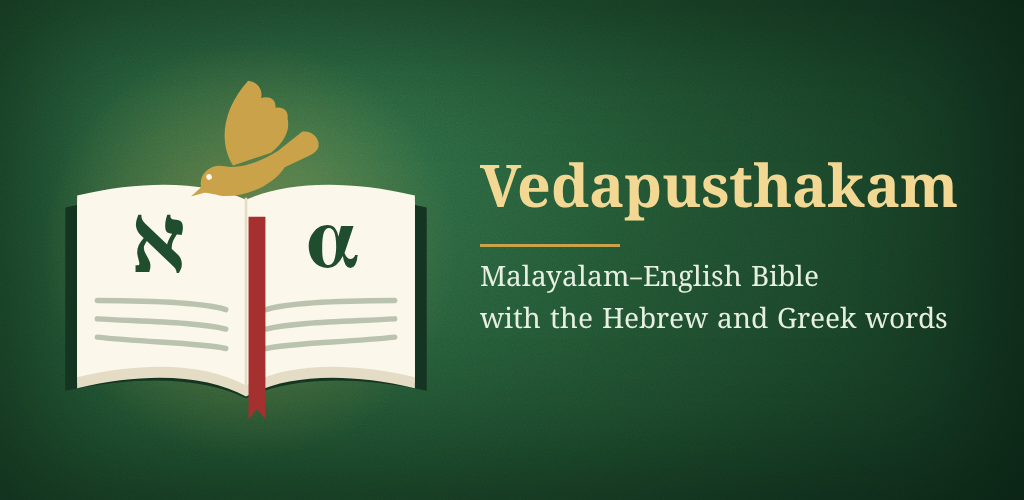
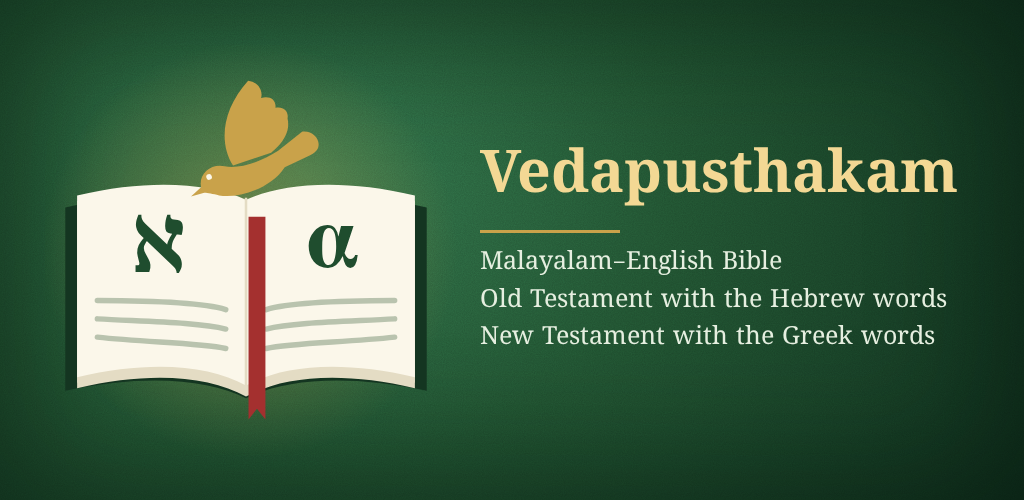
Play listing: Malayalam English Bible, Hebrew for the Old Testament, Greek for the New
App names: വേദപുസ്തകം – മലയാളം ഇംഗ്ലീഷ് (Malayalam listing) and Malayalam
English Bible (English translation), within Play's 30 characters. The short
and full descriptions and the feature graphics now say the words are Hebrew
in the Old Testament and Greek in the New.

Claude-Session: https://claude.ai/code/session_01Kt8QQgS1XLBE3LTVGzDsDj

Changed region(s): [[0.4688, 0.45, 0.9375, 0.69], [0.4688, 0.3, 0.9375, 0.45]]

diff --git a/docs/play/listing-vedapusthakam.md b/docs/play/listing-vedapusthakam.md
@@ -8,27 +8,27 @@ Malayalam speaker before it goes live.
 
 ## Malayalam (default)
 
-**App name** (24 of 30 characters)
+**App name** (28 of 30 characters)
 
 ```
-വേദപുസ്തകം: മലയാളം ബൈബിൾ
+വേദപുസ്തകം – മലയാളം ഇംഗ്ലീഷ്
 ```
 
 **Short description** (69 of 80)
 
 ```
-സത്യവേദപുസ്തകം 1910, KJV, എബ്രായ-ഗ്രീക്ക് മൂലപാഠം. ഇന്റർനെറ്റ് വേണ്ട.
+മലയാളം–ഇംഗ്ലീഷ് ബൈബിൾ. പഴയനിയമത്തിന് എബ്രായ, പുതിയനിയമത്തിന് ഗ്രീക്ക് പദങ്ങൾ.
 ```
 
 **Full description**
 
 ```
-സത്യവേദപുസ്തകം (1910) വായിക്കാനും, ഓരോ വാക്കിനും പിന്നിലുള്ള എബ്രായ, ഗ്രീക്ക് മൂലവാക്കുകൾ പഠിക്കാനും.
+മലയാളം–ഇംഗ്ലീഷ് ബൈബിൾ: സത്യവേദപുസ്തകവും (1910) കിംഗ് ജെയിംസ് വേർഷനും വായിക്കാനും, ഓരോ വാക്കിനും പിന്നിലുള്ള മൂലവാക്കുകൾ, പഴയനിയമത്തിൽ എബ്രായയും പുതിയനിയമത്തിൽ ഗ്രീക്കും, പഠിക്കാനും.
 
 • സത്യവേദപുസ്തകവും കിംഗ് ജെയിംസ് വേർഷനും (KJV): ഒറ്റ സ്പർശത്തിൽ മാറാം.
-• അടിവരയിട്ട ഒരു മലയാളം വാക്കിൽ തൊട്ടാൽ അതിന്റെ എബ്രായ അല്ലെങ്കിൽ ഗ്രീക്ക് മൂലവാക്ക്: അർത്ഥം, ഉച്ചാരണം, വ്യാകരണം, സ്ട്രോങ്ങിന്റെ നിഘണ്ടു.
+• അടിവരയിട്ട ഒരു മലയാളം വാക്കിൽ തൊട്ടാൽ അതിന്റെ മൂലവാക്ക് (പഴയനിയമത്തിൽ എബ്രായ, പുതിയനിയമത്തിൽ ഗ്രീക്ക്): അർത്ഥം, ഉച്ചാരണം, വ്യാകരണം, സ്ട്രോങ്ങിന്റെ നിഘണ്ടു.
 • ആ മൂലവാക്ക് വരുന്ന എല്ലാ വാക്യങ്ങളും, സത്യവേദപുസ്തകം അതിനെ ഏതെല്ലാം വാക്കുകളാൽ പരിഭാഷപ്പെടുത്തുന്നു എന്നതും.
-• മൂലപാഠം: ഓരോ വാക്യത്തിന്റെയും എബ്രായ, ഗ്രീക്ക് പാഠം വാക്കുവാക്കായി, ഉച്ചാരണവും അർത്ഥവും സഹിതം.
+• മൂലപാഠം: പഴയനിയമത്തിലെ ഓരോ വാക്യത്തിന്റെയും എബ്രായ പാഠവും പുതിയനിയമത്തിലേതിന്റെ ഗ്രീക്ക് പാഠവും വാക്കുവാക്കായി, ഉച്ചാരണവും അർത്ഥവും സഹിതം.
 • മലയാളത്തിലും ഇംഗ്ലീഷിലും തിരയാം; അക്ഷരരീതിയിലെ ചെറിയ വ്യത്യാസങ്ങൾ (ആത്മാവ്/ആത്മാവു, കൽപിച്ചു/കല്പിച്ചു) പ്രശ്നമല്ല. സങ്കീർത്തനം 23, യോഹന്നാൻ 3:16 പോലെ ടൈപ്പ് ചെയ്ത് നേരെ പോകാം.
 • ഒരു വാക്യം മലയാളത്തിലും KJV-യിലും മൂലപാഠത്തോടൊപ്പം താരതമ്യം ചെയ്യാം.
 • വാക്യം മുഴുവനായോ ചില വാക്കുകൾ മാത്രമായോ, പല വാക്യങ്ങൾ കടന്നുപോകുന്ന ഒരു ഭാഗമായോ നാല് നിറങ്ങളിൽ ഹൈലൈറ്റ് ചെയ്യാം. അടയാളങ്ങളും കുറിപ്പുകളും സൂക്ഷിക്കാം.
@@ -44,29 +44,29 @@ Malayalam speaker before it goes live.
 
 ## English (translation)
 
-**App name** (30 of 30)
+**App name** (23 of 30)
 
 ```
-Vedapusthakam: Malayalam Bible
+Malayalam English Bible
 ```
 
 **Short description** (75 of 80)
 
 ```
-Malayalam Bible 1910 and the KJV, with the Hebrew and Greek words. Offline.
+Malayalam-English Bible. Hebrew words for the Old Testament, Greek for the New.
 ```
 
 **Full description**
 
 ```
-Read the Malayalam Sathyavedapusthakam (1910) and study the Hebrew and Greek words behind it.
+A Malayalam-English Bible: read the Sathyavedapusthakam (1910) and the King James Version, and study the words behind them, Hebrew in the Old Testament and Greek in the New.
 
 • The Sathyavedapusthakam and the King James Version, switched with one tap.
-• Tap an underlined Malayalam word for the Hebrew or Greek word behind it: meaning, pronunciation, grammar and Strong's dictionary entry.
+• Tap an underlined Malayalam word for the word behind it, Hebrew in the Old Testament or Greek in the New: meaning, pronunciation, grammar and Strong's dictionary entry.
 • Every verse where that Hebrew or Greek word stands, and the Malayalam words the Sathyavedapusthakam uses for it.
-• Hebrew and Greek words: the original text of every verse, word by word, with transliteration and a short meaning.
+• Hebrew and Greek words: the Hebrew of every Old Testament verse and the Greek of every New Testament verse, word by word, with transliteration and a short meaning.
 • Search in Malayalam or English; small spelling differences (ആത്മാവ്/ആത്മാവു, കൽപിച്ചു/കല്പിച്ചു) don't matter. Type a reference such as സങ്കീർത്തനം 23 or John 3:16 to go straight there.
-• Compare a verse in Malayalam and the KJV side by side with the Hebrew or Greek.
+• Compare a verse in Malayalam and the KJV side by side with the Hebrew (Old Testament) or Greek (New Testament).
 • Highlight a whole verse, a few words, or a passage running over several verses, in four colours. Keep bookmarks and notes.
 • Light, sepia and dark themes. Pinch to change the text size. Read verse by verse or in paragraphs.
 • Menus and buttons in Malayalam, or in English if you prefer.

diff --git a/docs/play/README.md b/docs/play/README.md
@@ -31,7 +31,7 @@ Malayalam speaker to read it.
 
 ## 2. Create the app in Play Console
 
-- [ ] Create app: app name `വേദപുസ്തകം: മലയാളം ബൈബിൾ`, default language
+- [ ] Create app: app name `വേദപുസ്തകം – മലയാളം ഇംഗ്ലീഷ്`, default language
       Malayalam (ml-IN), type App, Free or Paid. A free app cannot later become paid.
 - [ ] Accept the declarations (Developer Program Policies, US export laws).
 
